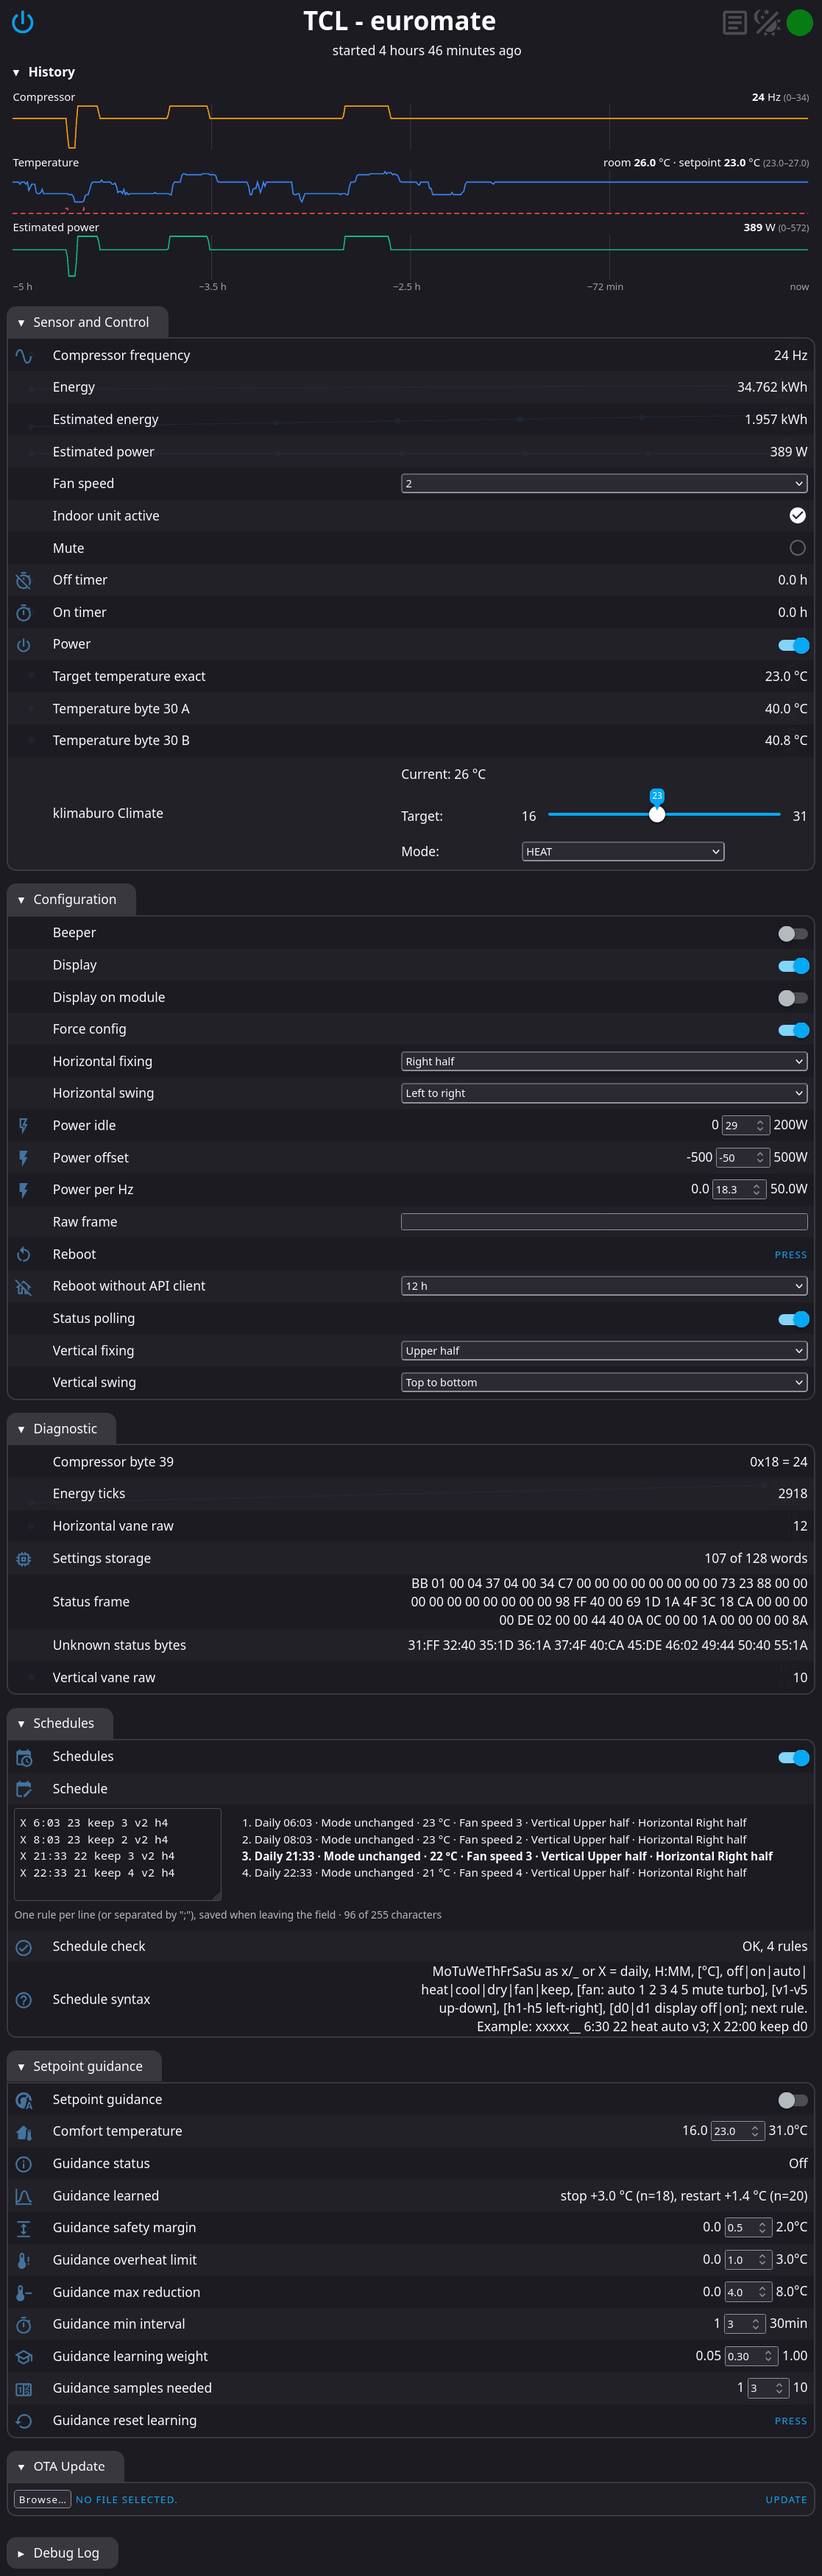
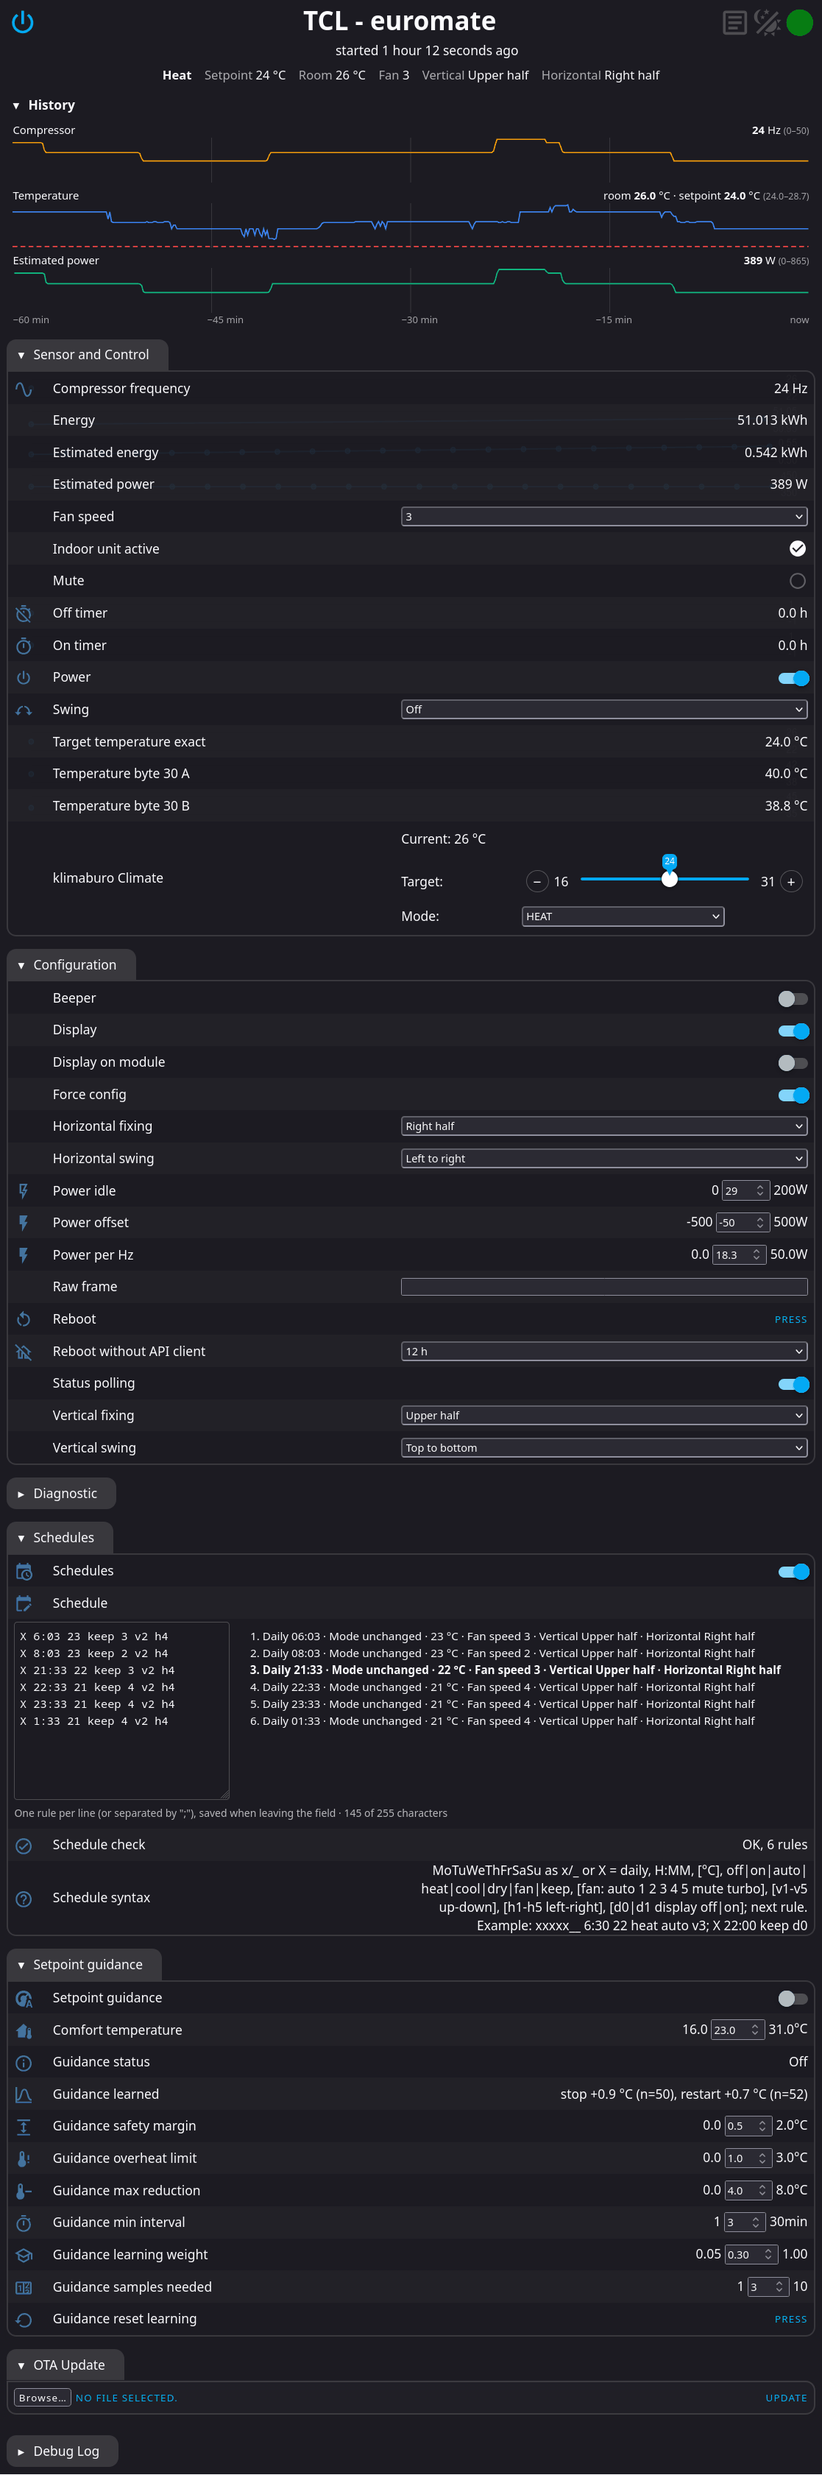
Operating state overview, setpoint buttons, swing select, Midea silent/turbo, panel layout, links, new screenshots

diff --git a/ui-extras.js b/ui-extras.js
@@ -10,6 +10,8 @@
 // - Every section (and the history) collapses with a click on its header.
 // - The schedule is edited in a resizable text field, one rule per line, next to the list of
 //   the rules with the next switching point in bold.
+// - The setpoint slider of a climate entity gets − and + buttons, one step of the unit each.
+// - A line above the history sums up the operating state: mode, temperatures, fan, vanes.
 // The browser remembers choice, widths and collapsed sections per device.
 const KEY = "esphome-log-hidden";
 const BUTTON = "log-toggle";
@@ -109,6 +111,9 @@ main.flex-grid-half.expanded_entity {
 .flex-grid-half.expanded_logs #${SPLIT} { display: none; }
 @media (width<=1024px) { #${SPLIT} { display: none; } }
 section.offline-lock { opacity: 0.45; filter: grayscale(1); transition: opacity 0.3s; }
+.op-state { margin: 8px 8px 12px; display: flex; flex-wrap: wrap; justify-content: center; gap: 2px 16px; font-size: 0.95em; }
+.op-state .op-mode { font-weight: 700; }
+.op-state .op-label { opacity: 0.65; margin-right: 4px; }
 .hist { margin: 0 8px 16px; }
 .hist-head { cursor: pointer; font-weight: 600; padding: 4px 0; }
 .hist-head::before { content: "▾"; display: inline-block; width: 1.2em; }
@@ -252,6 +257,7 @@ function stateListen() {
 		} else if (key === "text/Schedule" || key === "text_sensor/Schedule rules") {
 			scheduleBox();
 		}
+		opState();
 	});
 }
 
@@ -643,9 +649,147 @@ function scheduleNote(box) {
 		: `One rule per line (or separated by ";"), saved when leaving the field · ${n} of 255 characters`;
 }
 
+// Operating state above the history: mode, setpoint, room temperature, fan, vanes.
+// Built from the entities the device has (TCL: "… fixing", Midea: "… louver").
+const MODE_LABELS = { OFF: "Off", HEAT: "Heat", COOL: "Cool", HEAT_COOL: "Heat/Cool", AUTO: "Auto",
+	DRY: "Dry", FAN_ONLY: "Fan only" };
+
+function stateValue(key) {
+	const d = states[key];
+	if (!d) return null;
+	const v = d.value !== undefined && typeof d.value !== "boolean" ? d.value : d.state;
+	return v === undefined || v === null || v === "" ? null : String(v);
+}
+
+function opItems() {
+	const ckey = Object.keys(states).find((k) => k.startsWith("climate/"));
+	const c = ckey && states[ckey];
+	if (!c) return null;
+	const items = [];
+	const mode = c.mode || "";
+	items.push(["", MODE_LABELS[mode] || mode, "op-mode"]);
+	const num = (v) => {
+		const n = parseFloat(v);
+		return isNaN(n) ? null : n;
+	};
+	if (mode !== "OFF" && num(c.target_temperature) !== null) items.push(["Setpoint", `${num(c.target_temperature)} °C`]);
+	if (num(c.current_temperature) !== null) items.push(["Room", `${num(c.current_temperature)} °C`]);
+	if (mode === "OFF") return items;
+	const fan = stateValue("select/Fan speed");
+	if (fan) items.push(["Fan", fan]);
+	const swing = stateValue("select/Swing") || "Off";
+	const swingV = swing === "Vertical" || swing === "Both";
+	const swingH = swing === "Horizontal" || swing === "Both";
+	const v = stateValue("select/Vertical louver") || stateValue("select/Vertical fixing");
+	const h = stateValue("select/Horizontal louver") || stateValue("select/Horizontal fixing");
+	if (swingV) items.push(["Vertical", "swing"]);
+	else if (v) items.push(["Vertical", v]);
+	if (swingH) items.push(["Horizontal", "swing"]);
+	else if (h) items.push(["Horizontal", h]);
+	return items;
+}
+
+function opState() {
+	const r = root();
+	const table = r && r.querySelector("esp-entity-table");
+	const items = table && opItems();
+	if (!items) return;
+	let line = r.querySelector(".op-state");
+	if (!line) {
+		line = document.createElement("div");
+		line.className = "op-state";
+	}
+	// directly above the history, or above the entities without history
+	const anchor = r.querySelector(".hist") || table;
+	if (line.nextElementSibling !== anchor) anchor.before(line);
+	line.innerHTML = "";
+	for (const [label, value, cls] of items) {
+		const span = document.createElement("span");
+		if (cls) span.className = cls;
+		if (label) {
+			const l = document.createElement("span");
+			l.className = "op-label";
+			l.textContent = label;
+			span.appendChild(l);
+		}
+		span.appendChild(document.createTextNode(value));
+		line.appendChild(span);
+	}
+}
+
+// − and + next to the setpoint slider of climate entities. Several clicks add up and are sent
+// together 0.6 s after the last one.
+const STEP_STYLE = `
+.setpoint-step { width: 28px; height: 28px; margin: 0 6px; border-radius: 50%; padding: 0;
+	border: 1px solid rgba(127, 127, 127, 0.6); background: transparent; color: inherit;
+	font-size: 18px; line-height: 1; cursor: pointer; align-self: center; flex: none; }
+.setpoint-step:hover { border-color: rgba(3, 169, 244, 0.9); }
+`;
+const SETPOINT_FIELDS = { "Target:": "target_temperature", "Target Low:": "target_temperature_low",
+	"Target High:": "target_temperature_high" };
+const setpointPending = {};
+
+function setpointStep(key, field, dir) {
+	const d = states[key];
+	if (!d) return;
+	const step = parseFloat(d.step) || 0.5;
+	const id = key + "|" + field;
+	const pending = setpointPending[id];
+	let v = pending ? pending.value : parseFloat(d[field]);
+	if (isNaN(v)) return;
+	v = Math.round((v + dir * step) / step) * step;
+	const lo = parseFloat(d.min_temp), hi = parseFloat(d.max_temp);
+	if (!isNaN(lo)) v = Math.max(lo, v);
+	if (!isNaN(hi)) v = Math.min(hi, v);
+	v = Math.round(v * 10) / 10;
+	if (pending) clearTimeout(pending.timer);
+	setpointPending[id] = {
+		value: v,
+		timer: setTimeout(() => {
+			delete setpointPending[id];
+			post(key, "set", `${field}=${v}`).catch(() => {});
+		}, 600),
+	};
+	// show the new value right away on the slider
+	const r = root();
+	const table = r && r.querySelector("esp-entity-table");
+	const slider = table && table.shadowRoot.querySelector(`[data-setpoint="${CSS.escape(id)}"]`);
+	if (slider) slider.value = v;
+}
+
+function setpointButtons() {
+	const r = root();
+	const table = r && r.querySelector("esp-entity-table");
+	const sr = table && table.shadowRoot;
+	if (!sr) return;
+	sr.querySelectorAll(".climate-row").forEach((row) => {
+		const label = row.querySelector("label");
+		const slider = row.querySelector("esp-range-slider");
+		const field = label && SETPOINT_FIELDS[label.textContent.trim()];
+		const entity = row.closest(".entity-row");
+		if (!field || !slider || !entity || row.querySelector(".setpoint-step")) return;
+		style(sr, "step-style", STEP_STYLE);
+		const name = entity.children[1] && entity.children[1].textContent.trim();
+		const key = "climate/" + name;
+		slider.dataset.setpoint = key + "|" + field;
+		const make = (text, dir) => {
+			const b = document.createElement("button");
+			b.className = "setpoint-step";
+			b.textContent = text;
+			b.title = dir < 0 ? "lower" : "higher";
+			b.addEventListener("click", () => setpointStep(key, field, dir));
+			return b;
+		};
+		slider.before(make("−", -1));
+		slider.after(make("+", 1));
+	});
+}
+
 function setup() {
 	button();
 	stateListen();
+	setpointButtons();
+	opState();
 	powerButton();
 	sections();
 	scheduleBox();

diff --git a/ac-panel.py b/ac-panel.py
@@ -59,6 +59,17 @@ def load_config():
 	return yaml.load(CONFIG.read_text(encoding="utf-8"), Loader=Loader)
 
 
+# further entities shown on the page (TCL: "… fixing", Midea: "… louver")
+DETAILS = {
+	"select/Fan speed": "fan",
+	"select/Swing": "swing",
+	"select/Vertical louver": "vane_v",
+	"select/Vertical fixing": "vane_v",
+	"select/Horizontal louver": "vane_h",
+	"select/Horizontal fixing": "vane_h",
+}
+
+
 class Device:
 	"""One air conditioner: keeps an event stream open and caches climate and power state."""
 
@@ -100,6 +111,9 @@ class Device:
 			elif domain == "switch" and key.split("/")[-1] == "Power":
 				self.power = self.path(key)
 				self.state["power"] = d.get("value") is True or d.get("state") == "ON"
+			elif key in DETAILS:
+				v = d.get("value") if domain == "sensor" else d.get("state", d.get("value"))
+				self.state[DETAILS[key]] = v
 
 	def listen(self):
 		last = None  # last error, logged only when it changes
@@ -156,7 +170,7 @@ class Device:
 	def snapshot(self):
 		with self.lock:
 			s = dict(self.state)
-		s.update(name=self.name, online=self.online, has_power=self.power is not None)
+		s.update(name=self.name, url=self.base + "/", online=self.online, has_power=self.power is not None)
 		return s
 
 
@@ -177,8 +191,14 @@ main { max-width: 520px; margin: 0 auto; display: grid; gap: 12px; }
 .card { background: var(--card); border: 1px solid var(--line); border-radius: 12px; padding: 14px 16px;
 	display: grid; grid-template-columns: 1fr auto; gap: 10px 12px; align-items: center; }
 .card.offline { opacity: 0.5; }
-.name { font-weight: 600; font-size: 1.1em; }
-.info { color: var(--dim); font-size: 0.9em; grid-column: 1; }
+.name { font-weight: 600; font-size: 1.1em; color: inherit; text-decoration: none; }
+a.name:hover { text-decoration: underline; }
+.head { display: flex; flex-wrap: wrap; align-items: baseline; gap: 2px 24px; grid-column: 1; }
+.info { color: var(--dim); font-size: 0.9em; }
+.info .mode { color: var(--fg); font-weight: 600; }
+.detail { color: var(--dim); font-size: 0.85em; grid-column: 1; }
+.detail:empty { display: none; }
+.card.nodetail .power { grid-row: 1; }
 .power { width: 52px; height: 52px; border-radius: 50%; border: 2px solid var(--line); background: none;
 	color: var(--dim); cursor: pointer; grid-row: 1 / span 2; grid-column: 2; }
 .power svg { width: 28px; height: 28px; display: block; margin: auto; }
@@ -195,6 +215,8 @@ button:disabled { opacity: 0.4; cursor: default; }
 <script>
 const POWER_ICON = '<svg viewBox="0 0 24 24"><path fill="currentColor" d="M16.56,5.44L15.11,6.89C16.84,7.94 18,9.83 18,12A6,6 0 0,1 12,18A6,6 0 0,1 6,12C6,9.83 7.16,7.94 8.88,6.88L7.44,5.44C5.36,6.88 4,9.28 4,12A8,8 0 0,0 12,20A8,8 0 0,0 20,12C20,9.28 18.64,6.88 16.56,5.44M13,3H11V13H13"/></svg>';
 let devices = [];
+const MODES = { OFF: "Off", HEAT: "Heat", COOL: "Cool", HEAT_COOL: "Heat/Cool", AUTO: "Auto", DRY: "Dry",
+	FAN_ONLY: "Fan only" };
 // setpoint changed on the page, sent after a short pause so that several clicks make one request
 const pending = {};
 
@@ -211,8 +233,8 @@ function render() {
 			card = document.createElement("section");
 			card.id = "dev" + i;
 			card.className = "card";
-			card.innerHTML = `<div class="name"></div><button class="power" title="On / off">${POWER_ICON}</button>
-				<div class="info"></div>
+			card.innerHTML = `<div class="head"><a class="name" target="_blank" rel="noopener"></a><span class="info"></span></div>
+				<button class="power" title="On / off">${POWER_ICON}</button><div class="detail"></div>
 				<div class="temp"><button class="down">&minus;</button><span class="value"></span><button class="up">+</button></div>`;
 			card.querySelector(".power").onclick = () => power(i);
 			card.querySelector(".down").onclick = () => step(i, -1);
@@ -221,11 +243,32 @@ function render() {
 		}
 		const on = d.power === true;
 		card.classList.toggle("offline", !d.online);
-		card.querySelector(".name").textContent = d.name;
+		const name = card.querySelector(".name");
+		name.textContent = d.name;
+		name.href = d.url;
+		name.title = "Web interface of " + d.name;
 		const room = num(d.current_temperature);
-		const mode = d.mode ? d.mode.replace("_", " ").toLowerCase() : "";
-		card.querySelector(".info").textContent = !d.online ? "no connection"
-			: [room !== null ? `room ${room} °C` : "", on ? mode : "off"].filter(x => x).join(" · ");
+		const mode = MODES[d.mode] || d.mode || "";
+		const info = card.querySelector(".info");
+		if (!d.online) {
+			info.textContent = "no connection";
+		} else {
+			info.innerHTML = "";
+			const m = document.createElement("span");
+			m.className = "mode";
+			m.textContent = on ? mode : "Off";
+			info.appendChild(m);
+			if (room !== null) info.appendChild(document.createTextNode(` · room ${room}\u00a0°C`));
+		}
+		const swing = d.swing || "Off";
+		const vane = (axis, value, swings) => swings ? `${axis} swing` : value ? `${axis} ${value}` : "";
+		const detail = card.querySelector(".detail");
+		detail.textContent = !d.online || !on ? "" : [
+			d.fan ? `Fan ${d.fan}` : "",
+			vane("Vertical", d.vane_v, swing === "Vertical" || swing === "Both"),
+			vane("Horizontal", d.vane_h, swing === "Horizontal" || swing === "Both"),
+		].filter(x => x).join(" · ");
+		card.classList.toggle("nodetail", !detail.textContent);
 		const pb = card.querySelector(".power");
 		pb.classList.toggle("on", on);
 		pb.disabled = !d.online || !d.has_power;

diff --git a/README.md b/README.md
@@ -25,7 +25,7 @@ TCL units use the component [tclac](https://github.com/I-am-nightingale/tclac), 
 | `schedule.yaml`, `schedule.h` | schedules as a text field, time via NTP, switch "Power" |
 | `setpoint-guidance.yaml` | self-learning setpoint guidance for heating |
 | `standalone.yaml` | select "Reboot without API client", button "Reboot" |
-| `tcl-extra.yaml` | additional values from the TCL status frames (compressor frequency, estimated power, timers, energy, unknown bytes) |
+| `tcl-extra.yaml` | additional values from the TCL status frames (compressor frequency, estimated power, timers, energy, unknown bytes), select "Swing" |
 | `tcl-protocol.yaml` | raw UART access for `tcl_probe.py` |
 | `history.yaml`, `history.h` | history in RAM with growing interval (1 s up to 64 s, about 10.7 hours), shown as a chart in the web interface |
 | `ui-extras.js` | extras for the web interface: power button, collapsible log, adjustable column width, lock while offline |
@@ -82,6 +82,8 @@ web_server:
 - the device name at the top reloads the page when clicked, e.g. after an update
 - with `history.yaml` on the device, a history chart above the entities (see below); it fills the width and compresses as the history grows
 - every section (and the history) folds with a click on its header; the browser remembers which ones are folded
+- a line above the history with the operating state: mode, setpoint, room temperature, fan speed, vanes or swing
+- − and + buttons next to the setpoint slider, one step of the unit each (1 °C on TCL, 0.5 °C on Midea); several clicks are sent together 0.6 s after the last one
 - with `schedule.yaml` on the device, a resizable text field for the schedule with one rule per line, next to it the rules as the device understood them, the next switching point in bold
 
 The browser remembers these settings per device.
@@ -139,6 +141,8 @@ All parameters are set in the web interface:
 
 ## TCL: compressor frequency and estimated power
 
+The climate card of the web interface shows no swing modes; the select "Swing" (`tcl-extra.yaml` on TCL units, `klima-bosch.yaml` on Midea units) switches swing off, vertical, horizontal or both and follows the unit, also when it is switched by remote control.
+
 Byte 39 of the TCL status frame is the compressor frequency in Hz (0 = compressor stopped). `tcl-extra.yaml` shows it as "Compressor frequency" and, for comparison, as hex and decimal in "Compressor byte 39".
 
 "Estimated power" calculates the electrical power of the whole unit from it:
@@ -169,10 +173,10 @@ The Bosch Climate 4000i is built by Midea; it is the Midea Xtreme Save, model co
 | Entity | Meaning |
 |---|---|
 | Climate | mode, setpoint (0.5 °C steps); Heat/Cool, Heat, Cool, Dry and Fan only are always offered, because the autoconf report of the 4000i does not always contain heating |
-| Fan speed | select Auto, Low, Medium, High, Silent, Turbo (Silent and Turbo only if the unit reports them), since the climate card of the web interface shows no fan modes |
+| Fan speed | select Auto, Low, Medium, High, Silent, Turbo, since the climate card of the web interface shows no fan modes; Silent and Turbo are declared in the configuration, the component does not take them from the capability report of the unit |
 | Vertical louver, Horizontal louver | fixed vane position in five steps or "Last position"; the select shows the position reported by the unit |
 | Louver restore delay | after switching on, the chosen positions are sent again after this time (default 15 s) and then every 30 s until the unit reports them, at most 10 times; while heating starts, the unit keeps the vanes in its own position for a while and ignores commands |
-| Swing step | moves the vanes one step, like a short press of the swing button |
+| Swing | Off, Vertical, Horizontal, Both; a swinging axis is left out when the fixed positions are sent again after switching on |
 | Beeper, Display, Toggle display | beeper on/off, display of the indoor unit on/off; the unit only knows "toggle", so the switch "Display" remembers the state after its last command. After switching the display with the remote control, "Toggle display" brings switch and display in line again. |
 | Compressor frequency, Outdoor unit power | from the diagnostic data of the unit |
 | Indoor fan speed, Indoor fan target speed, Outdoor fan speed | fan speeds in rpm, so the current stage is visible in fan mode auto |
@@ -198,12 +202,14 @@ The defaults (12 W, 66 W, 1.13) were measured on the CL4000i 26 E in heating mod
 
 ## Panel for all units
 
-`ac-panel.py` runs on a Linux computer in the home network and serves one page for all units: on/off and setpoint per unit, with room temperature and mode. It keeps the event stream of each module open and sends the commands through their REST interface; the passwords of the modules stay on this computer. It needs Python 3 with PyYAML (`sudo apt install python3-yaml`) and the switch "Power" (`schedule.yaml`) on each module.
+`ac-panel.py` runs on a Linux computer in the home network and serves one page for all units: on/off and setpoint per unit, with mode, room temperature, fan speed and vanes; the name of a unit links to its own web interface. It keeps the event stream of each module open and sends the commands through their REST interface; the passwords of the modules stay on this computer. It needs Python 3 with PyYAML (`sudo apt install python3-yaml`) and the switch "Power" (`schedule.yaml`) on each module.
 
 ```bash
 cp ac-panel.example.yaml ac-panel.yaml
 python3 ac-panel.py
 ```
+
+<img src="docs/ac-panel.png" width="400" alt="Panel for all units">
 
 Enter the units in `ac-panel.yaml` (name, host name or IP, password from `secrets.yaml`) and open `http://COMPUTER:8080`. `panel_password` protects the page itself (user `admin`); without this line the page is open to everyone in the network. A setpoint changed with − and + is sent 0.8 s after the last click, in the step of the unit (1 °C on TCL, 0.5 °C on Midea).
 
